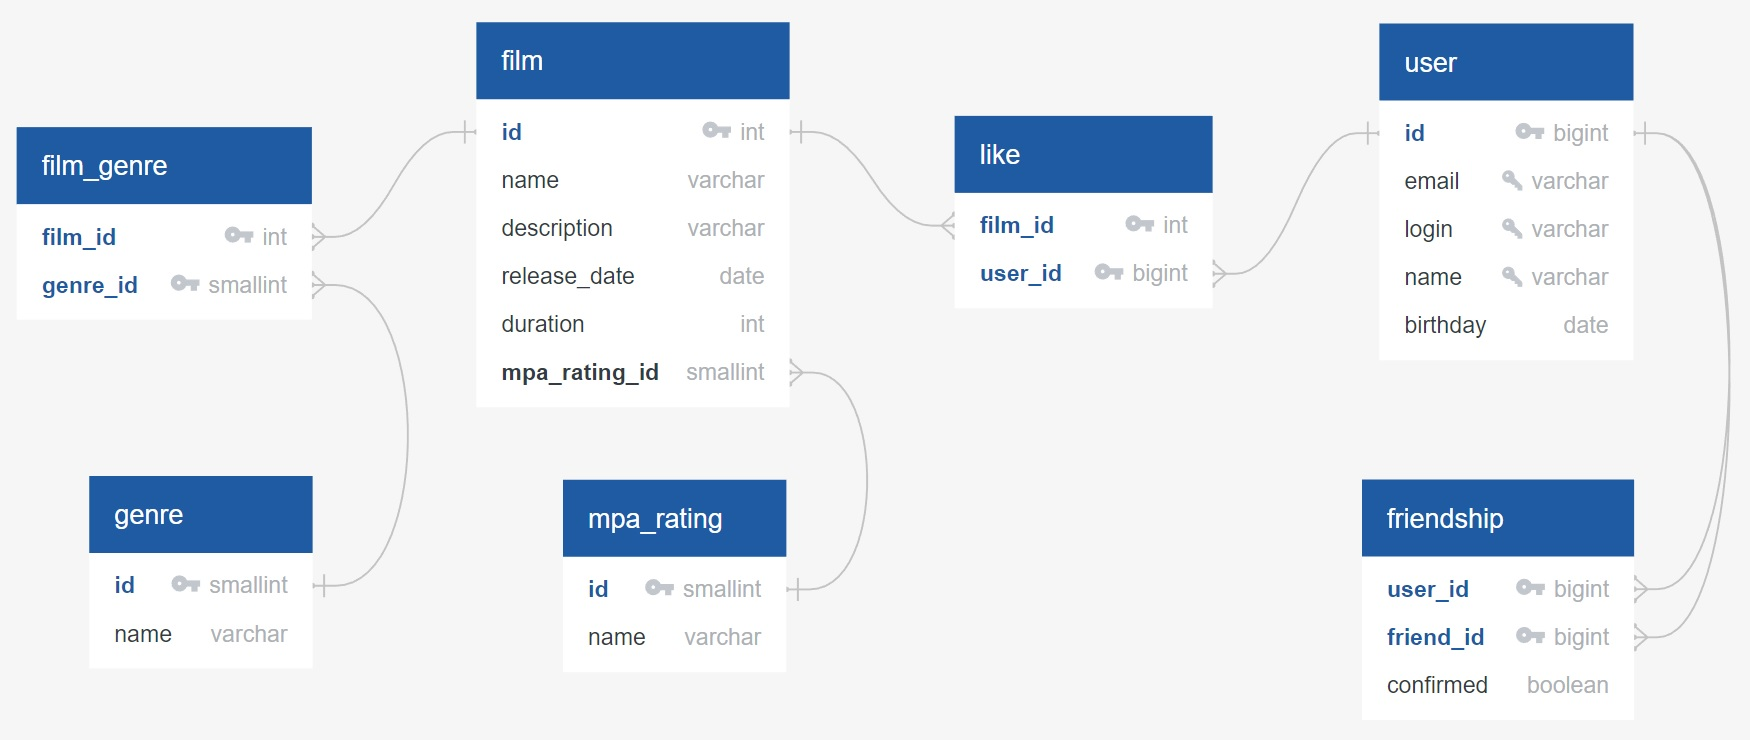
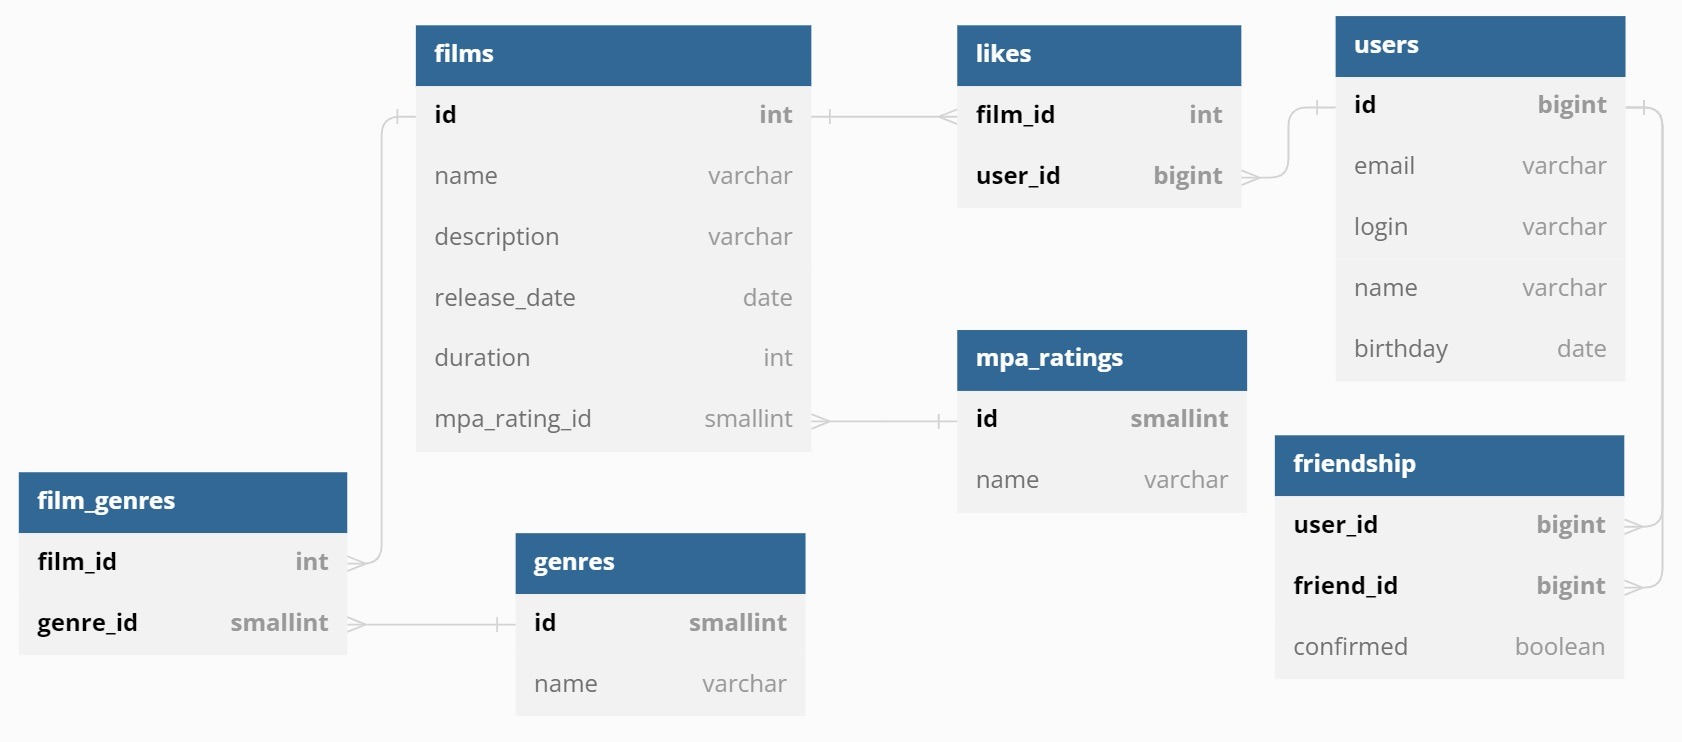
refactor: visual schema building via dbdiagram.io (based on initial SQL code)

diff --git a/README.md b/README.md
@@ -1,10 +1,10 @@
 # java-filmorate
 
 ## DB Design
-The DB schema was designed in [QuickDBD online editor](https://app.quickdatabasediagrams.com/#/).
+Initialization SQL code: [schema.sql](./src/main/resources/schema.sql).
 
-Script file for restoring: [dbschema.script](./dbschema/dbschema.script).
+The visual DB schema was designed in [dbdiagram.io](https://dbdiagram.io/d).
 
-Visual representation: [dbscema.jpg](./dbschema/dbschema.jpg):
+Visual representation ([dbschema.jpg](./dbschema/dbschema.jpg)):
 
 ![Alt text](./dbschema/dbschema.jpg)
